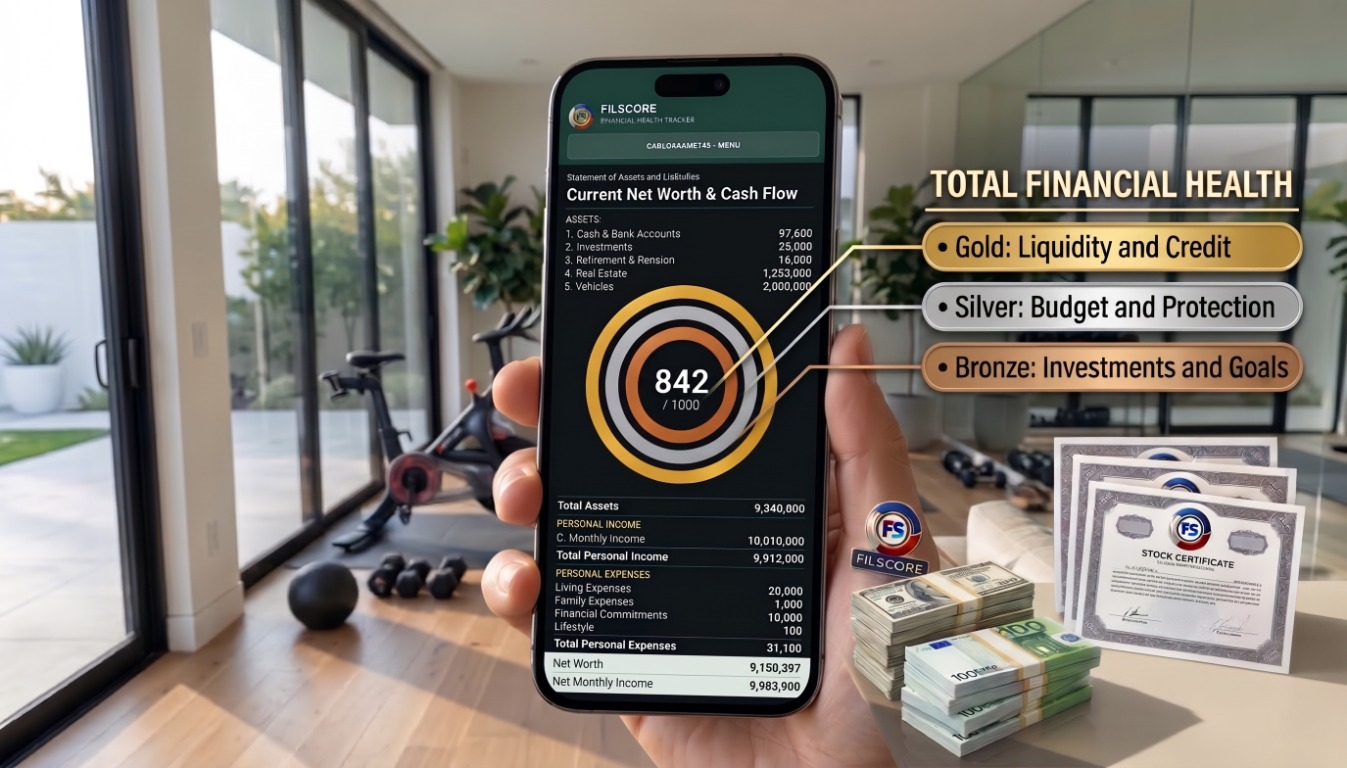
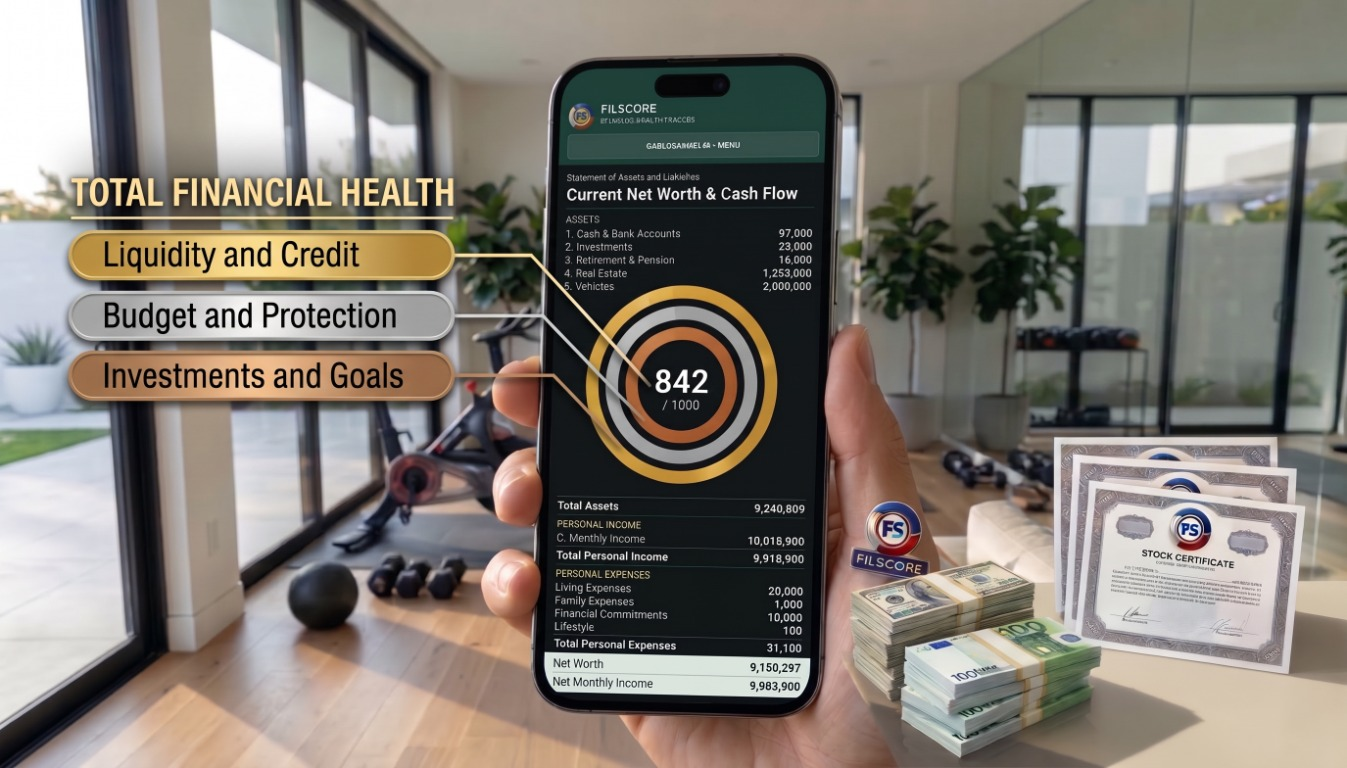
Illustrations: Phone pic, iOS and Cover

diff --git a/frontend/src/pages/public/LandingPage.css b/frontend/src/pages/public/LandingPage.css
@@ -88,7 +88,7 @@
   position: relative;
   isolation: isolate;
   display: grid;
-  grid-template-columns: minmax(0, 58%) minmax(420px, 42%);
+  grid-template-columns: minmax(0, 68%) minmax(0, 32%);
   min-height: min(760px, 88vh);
   overflow: hidden;
   background-color: var(--landing-navy);
@@ -118,9 +118,12 @@
 
 .landing-hero-visual {
   position: relative;
+  display: grid;
   min-width: 0;
   min-height: inherit;
+  place-items: center;
   overflow: hidden;
+  background: #0b111c;
 }
 
 .landing-hero-visual::after {
@@ -136,48 +139,8 @@
 .landing-hero-visual img {
   width: 100%;
   height: 100%;
-  object-fit: cover;
-  object-position: 44% center;
-}
-
-.landing-health-labels {
-  position: absolute;
-  z-index: 2;
-  top: 31%;
-  left: clamp(10px, 1.5vw, 22px);
-  display: grid;
-  width: min(27%, 210px);
-  gap: clamp(6px, 0.8vw, 10px);
-}
-
-.landing-health-label {
-  display: flex;
-  min-height: clamp(28px, 3vw, 36px);
-  align-items: center;
-  justify-content: center;
-  padding: 5px clamp(7px, 1vw, 12px);
-  border: 1px solid rgba(255, 255, 255, 0.78);
-  border-radius: 999px;
-  box-shadow: 0 3px 10px rgba(0, 0, 0, 0.34);
-  color: #141414;
-  font-family: "Trebuchet MS", "Segoe UI", sans-serif;
-  font-size: clamp(0.62rem, 0.86vw, 0.78rem);
-  font-weight: 800;
-  line-height: 1.12;
-  text-align: center;
-  text-wrap: balance;
-}
-
-.landing-health-label-cash {
-  background: linear-gradient(180deg, #f3cf68, #c79322);
-}
-
-.landing-health-label-protection {
-  background: linear-gradient(180deg, #f4f6f8, #aeb5bf);
-}
-
-.landing-health-label-investment {
-  background: linear-gradient(180deg, #d9a276, #a96437);
+  object-fit: contain;
+  object-position: center;
 }
 
 .landing-hero-content {
@@ -186,7 +149,7 @@
   min-width: 0;
   justify-content: center;
   flex-direction: column;
-  padding: 116px max(24px, calc((100vw - 1180px) / 2)) 56px clamp(32px, 4vw, 68px);
+  padding: 116px max(24px, calc((100vw - 1320px) / 2)) 56px clamp(28px, 3vw, 48px);
 }
 
 .landing-hero-copy {
@@ -208,7 +171,7 @@
   max-width: 520px;
   margin: 0;
   font-family: Georgia, "Times New Roman", serif;
-  font-size: clamp(2.05rem, 2.8vw, 3rem);
+  font-size: clamp(1.025rem, 1.4vw, 1.5rem);
   font-weight: 700;
   line-height: 1.08;
 }
@@ -453,7 +416,7 @@
   to { opacity: 1; transform: translateY(0); }
 }
 
-@media (max-width: 900px) {
+@media (max-width: 1100px) {
   .landing-nav { width: calc(100% - 32px); }
   .landing-nav nav > a:not(.landing-sign-in) { display: none; }
   .landing-hero { grid-template-columns: 1fr; min-height: auto; }
@@ -486,18 +449,9 @@
   .landing-hero {
     min-height: auto;
   }
-  .landing-hero-visual { min-height: 390px; }
-  .landing-hero-visual img { object-position: 43% center; }
-  .landing-health-labels {
-    top: 33%;
-    left: 6px;
-    width: 34%;
-    gap: 5px;
-  }
-  .landing-health-label {
-    min-height: 26px;
-    padding: 4px 6px;
-    font-size: clamp(0.56rem, 2.45vw, 0.68rem);
+  .landing-hero-visual {
+    min-height: 0;
+    aspect-ratio: 16 / 9;
   }
   .landing-hero-content { padding: 38px 20px 52px; }
   .landing-hero-mark {
@@ -506,7 +460,7 @@
     width: 520px;
   }
   .landing-eyebrow { margin-bottom: 10px; font-size: 0.72rem; }
-  .landing-hero h1 { font-size: clamp(1.95rem, 9.5vw, 2.7rem); line-height: 1.08; }
+  .landing-hero h1 { font-size: clamp(0.975rem, 4.75vw, 1.35rem); line-height: 1.08; }
   .landing-hero-lead { margin-top: 20px; font-size: 1rem; line-height: 1.55; }
   .landing-hero-actions { align-items: stretch; flex-direction: column; }
   .landing-primary-action,

diff --git a/frontend/tests/LandingPage.test.tsx b/frontend/tests/LandingPage.test.tsx
@@ -14,13 +14,6 @@ describe('LandingPage', () => {
     expect(screen.getByRole('img', {
       name: 'FILSCORE financial health dashboard displayed on a phone',
     })).toBeTruthy()
-    const categories = screen.getByLabelText('Financial health categories')
-    expect(categories.textContent).toContain('Cash and Credit')
-    expect(categories.textContent).toContain('Protection & Budget')
-    expect(categories.textContent).toContain('Investment & Retirement Goals')
-    expect(categories.textContent).not.toContain('Gold')
-    expect(categories.textContent).not.toContain('Silver')
-    expect(categories.textContent).not.toContain('Bronze')
     expect(screen.getByRole('heading', { name: 'Financial Health Dashboard' })).toBeTruthy()
     expect(screen.getByRole('heading', { name: 'AI Financial Assistant' })).toBeTruthy()
     expect(screen.getByRole('heading', { name: 'Explore FILSCORE with a 2-day free trial.' })).toBeTruthy()

diff --git a/frontend/src/pages/public/LandingPage.tsx b/frontend/src/pages/public/LandingPage.tsx
@@ -90,15 +90,6 @@ export default function LandingPage() {
               src={phoneFinancialHealth}
               alt="FILSCORE financial health dashboard displayed on a phone"
             />
-            <div className="landing-health-labels" aria-label="Financial health categories">
-              <span className="landing-health-label landing-health-label-cash">Cash and Credit</span>
-              <span className="landing-health-label landing-health-label-protection">
-                Protection &amp; Budget
-              </span>
-              <span className="landing-health-label landing-health-label-investment">
-                Investment &amp; Retirement Goals
-              </span>
-            </div>
           </div>
           <img className="landing-hero-mark" src={brandLogoDataUri} alt="" aria-hidden="true" />
           <div className="landing-hero-content">
